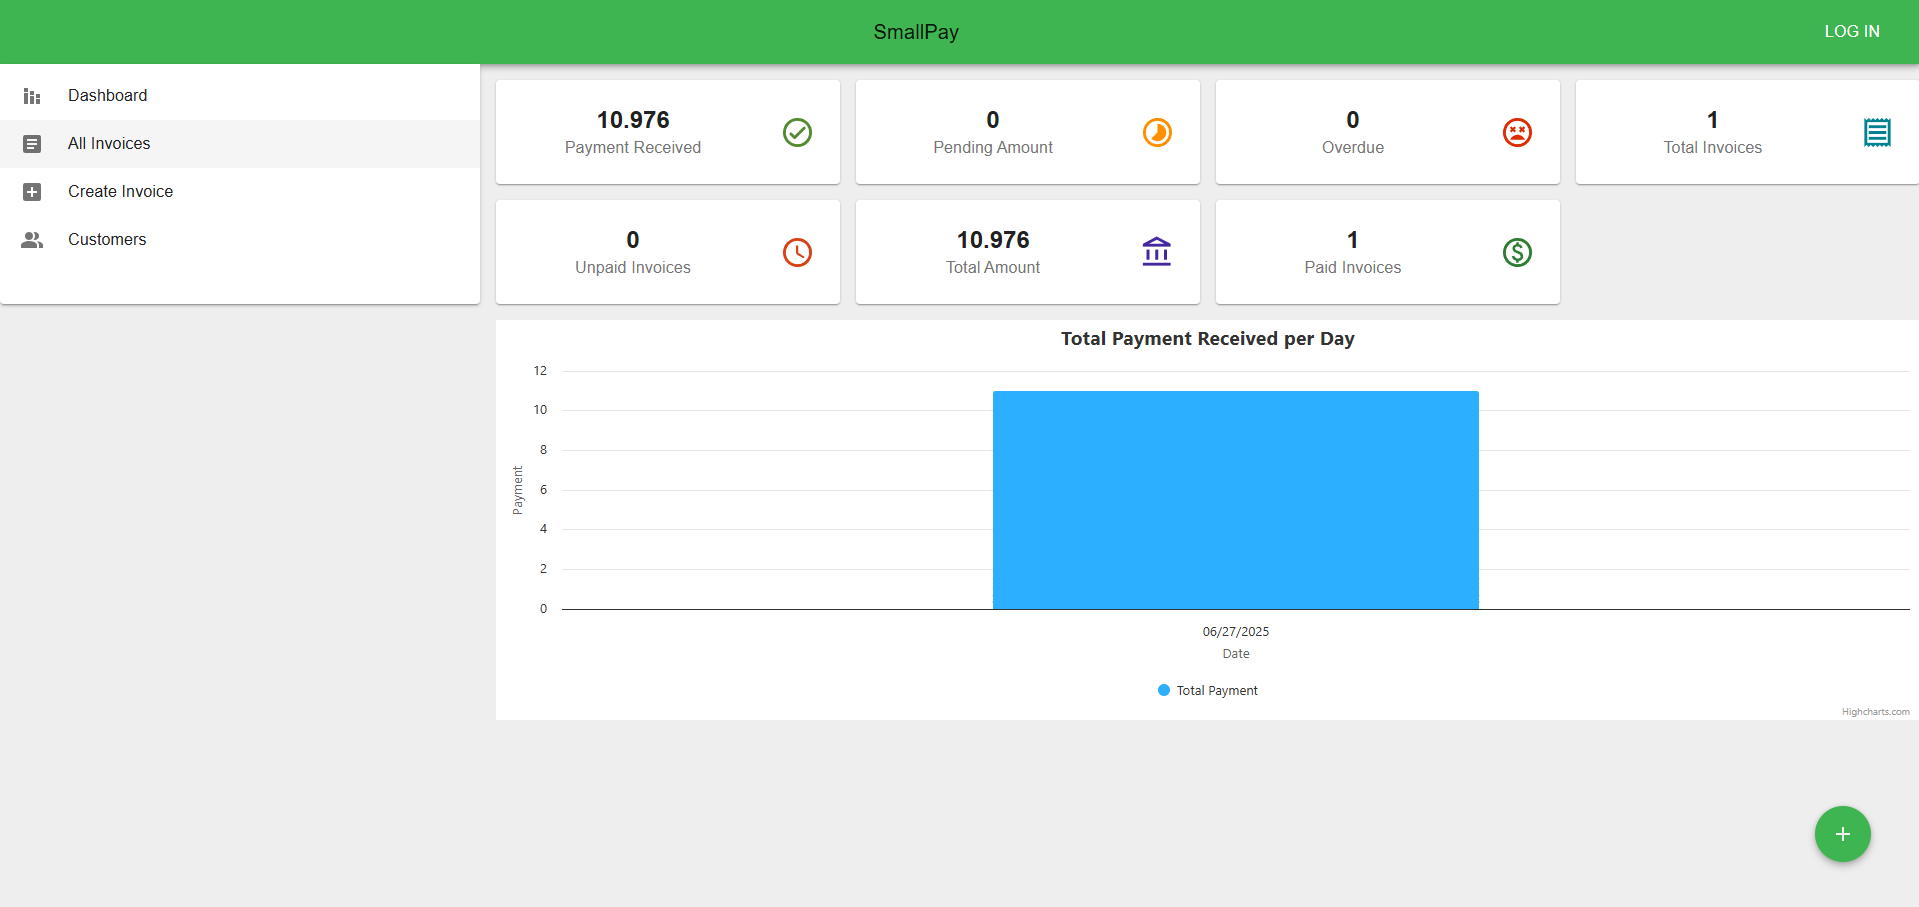
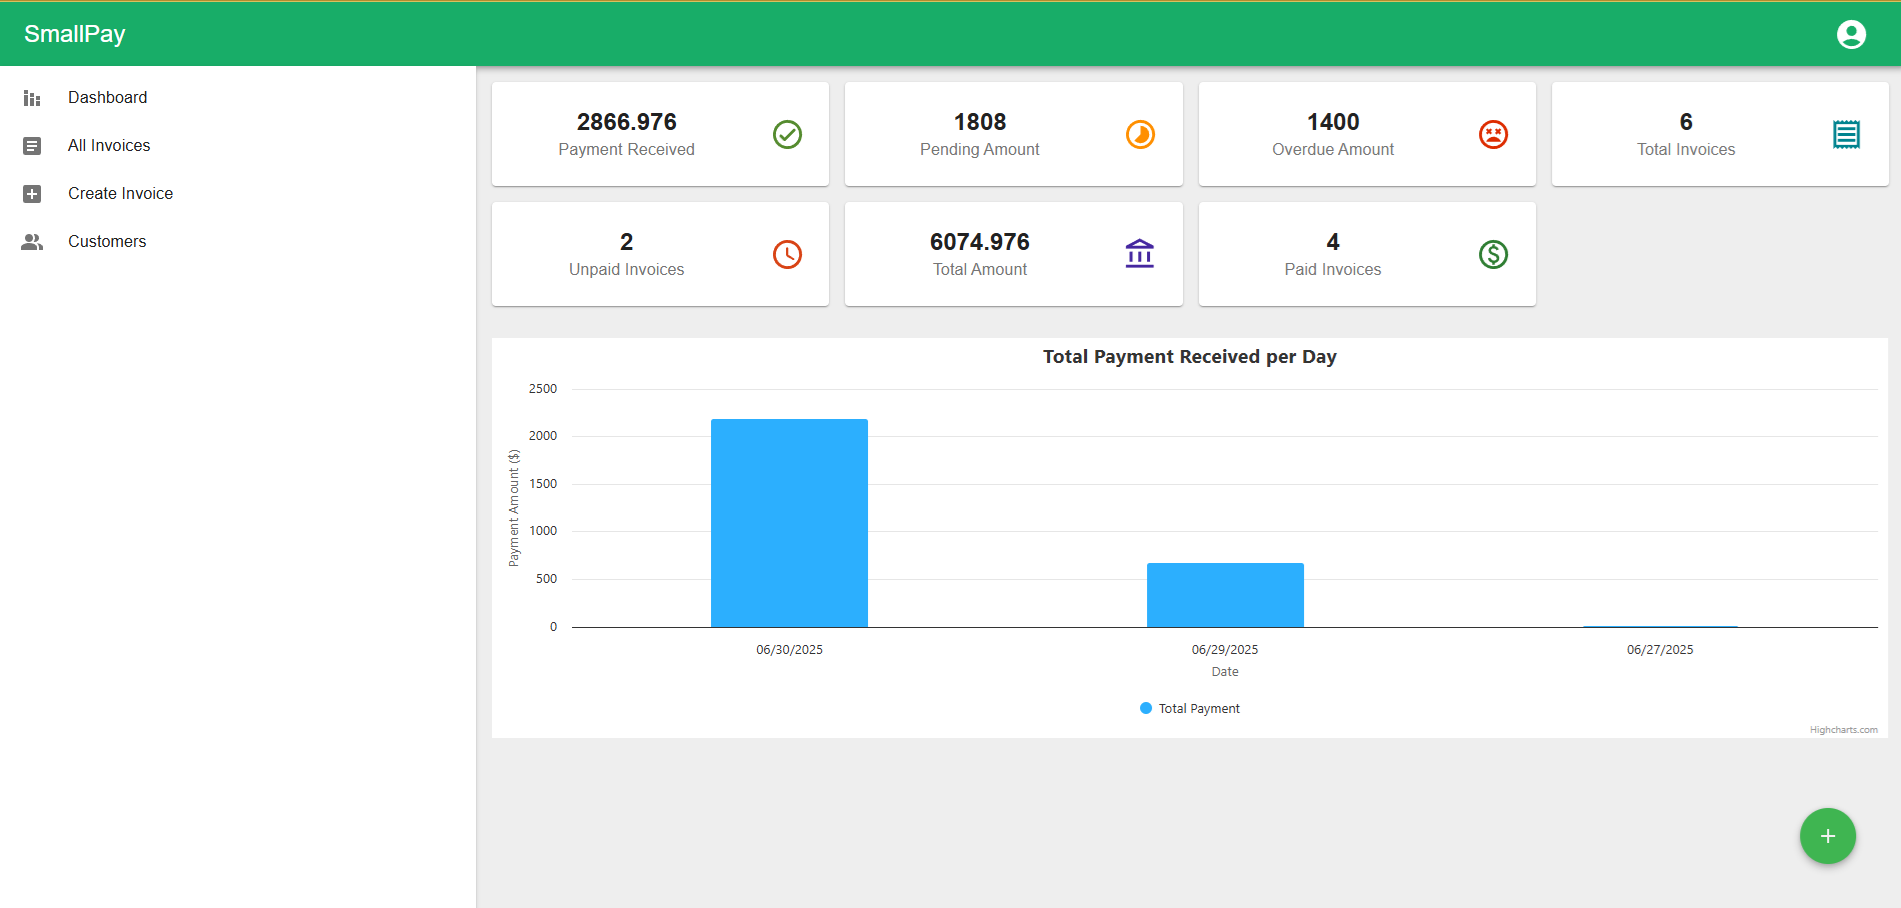
Final clean-up

diff --git a/src/components/Welcome/index.js b/src/components/Welcome/index.js
@@ -59,7 +59,12 @@ function Welcome() {
                 <Button
                   variant="contained"
                   size="large"
-                  sx={{ bgcolor: "#18ad68", px: 6, fontWeight:800, color: "#ffffff" }}
+                  sx={{
+                    bgcolor: "#18ad68",
+                    px: 6,
+                    fontWeight: 800,
+                    color: "#ffffff",
+                  }}
                   onClick={() => auth.signinRedirect()}
                 >
                   Sign Up
@@ -136,8 +141,8 @@ function Welcome() {
                 Real-time insights. Fewer surprises.
               </Typography>
               <Typography variant="body2" color="textSecondary">
-                Instantly track profits, losses, and customer payments—all from
-                a single dashboard that keeps you informed at a glance.
+                Instantly track profits, losses, and customer payments - all
+                from a single dashboard that keeps you informed at a glance.
               </Typography>
             </Paper>
           </Grid>

diff --git a/src/components/Dashboard/index.js b/src/components/Dashboard/index.js
@@ -16,7 +16,7 @@ const DashboardComp = (props) => {
   const status = [
     { label: "Payment Received", bColor: "" },
     { label: "Pending Amount", bColor: "" },
-    { label: "Overdue", bColor: "" },
+    { label: "Overdue Amount", bColor: "" },
     { label: "Total Invoices", bColor: "" },
     { label: "Unpaid Invoices", bColor: "" },
     { label: "Total Amount", bColor: "" },

diff --git a/src/components/Charts/chartOptions.js b/src/components/Charts/chartOptions.js
@@ -16,7 +16,7 @@ const options = {
   yAxis: {
     min: 0,
     title: {
-      text: "Payment",
+      text: "Payment Amount ($)",
     },
   },
 
